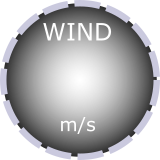
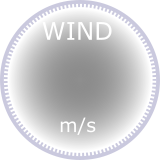
UI fixes - testing colors and backgrounds

diff --git a/wfs.py b/wfs.py
@@ -17,6 +17,7 @@ from wfs_forecast import fc
 from wfs_error_handling import error_handle
 import numpy as np
 import time
+import os
 
 
 class DatabaseFetcher:
@@ -144,7 +145,7 @@ weather_fetcher = WeatherFetcher()
 
 class MplCanvas(FigureCanvas):
     def __init__(self, parent=None, width=8, height=1, dpi=100):
-        fig = Figure(figsize=(width, height), dpi=dpi, facecolor='black')
+        fig = Figure(figsize=(width, height), dpi=dpi, facecolor=(0, 0, 0, 0.5))
         self.axes = fig.add_subplot(111)
         self.axes.set_facecolor('black')
         self.axes.tick_params(axis='x', colors='white')
@@ -161,20 +162,33 @@ class App(QWidget):
         self.title = "WFS - Weather Forecast Station"
         self.setWindowIcon(QIcon("img/drawing.svg.png"))
         self.setWindowTitle(self.title)
-        self.setStyleSheet("color: white; background-color: black;")
+        # self.setStyleSheet("color: white; background-color: blue;")
         # self.showFullScreen()
         self.setGeometry(0, 0, 800, 480)
+
+        path = str(Path(__file__).parent.absolute())
+        background_img = os.path.join(path, "img", "main_BG.png").replace(os.sep, '/')
+        self.setStyleSheet(f"""
+            QWidget {{
+                background-image : url({background_img});
+                background-repeat: no-repeat;
+                background-position: center;
+                color : white;
+                background-color : transparent;
+            }}
+        """)
+
 
         self.initUI()
         self.setup_timers()
 
     def initUI(self):
-        path = str(Path(__file__).parent.absolute())
         self.O1 = QVBoxLayout(self)
         self.mainContainer = QHBoxLayout()
         self.windContainer = QVBoxLayout()
         self.sensContainer = QVBoxLayout()
 
+        path = str(Path(__file__).parent.absolute())
         self.setup_wind_box(path)
         self.setup_graph_container()
         self.setup_sens_container(path)
@@ -194,19 +208,26 @@ class App(QWidget):
         self.windL.setAlignment(Qt.AlignmentFlag.AlignCenter)
         self.windL.setMinimumHeight(165)
         self.windL.setFont(QFont('Arial', 40))
-        img = path + "/img/wind_BG.png"
-        self.windL.setStyleSheet("background-image: url({}); "
-                                 "background-repeat: no-repeat; "
-                                 "background-position: center".format(img))
+        img = os.path.join(path, "img", "wind_BG.png")
+        self.windL.setStyleSheet(f"""
+            background-image: url({img.replace(os.sep, '/')});
+            background-repeat: no-repeat;
+            background-position: center;
+            color: white;
+        """)
 
         self.meanL = QLabel(str(mean_data))
         self.meanL.setAlignment(Qt.AlignmentFlag.AlignCenter)
         self.meanL.setMinimumHeight(165)
         self.meanL.setFont(QFont('Arial', 40))
-        img = path + "/img/wc_mean.png"
-        self.meanL.setStyleSheet("background-image: url({}); "
-                                 "background-repeat: no-repeat; "
-                                 "background-position: center".format(img))
+        img = os.path.join(path, "img", "mean_BG.png")
+        self.meanL.setStyleSheet(f"""
+            background-image: url({img.replace(os.sep, '/')});
+            background-repeat: no-repeat;
+            background-position: center;
+            background-color: transparent;
+            color: white;
+        """)
 
         self.windBox.addWidget(self.windL)
         self.windBox.addWidget(self.meanL)
@@ -214,7 +235,7 @@ class App(QWidget):
 
         self.beaufortbox = QHBoxLayout()
         self.beaufortL = QLabel(mean_beaufort)
-        self.beaufortL.setStyleSheet("color: white; background-color: black;")
+        self.beaufortL.setStyleSheet("background-color: red;")
         self.beaufortL.setAlignment(Qt.AlignmentFlag.AlignHCenter)
         self.beaufortL.setFont(QFont('Arial', 20))
         self.beaufortbox.addWidget(self.beaufortL)
@@ -312,6 +333,8 @@ class App(QWidget):
         self.max24 = QLabel("Max 24hr: NA m/s")
 
         self.statistic = QVBoxLayout(self.sensFrame)
+
+        # self.peak.setStyleSheet("color: white; background-color: blue;")
 
         self.statistic.addWidget(self.peak)
         self.statistic.addWidget(self.max1)
